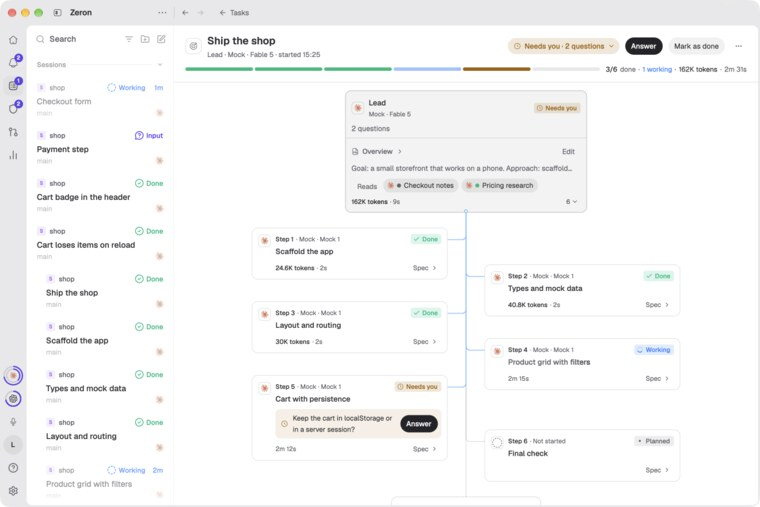
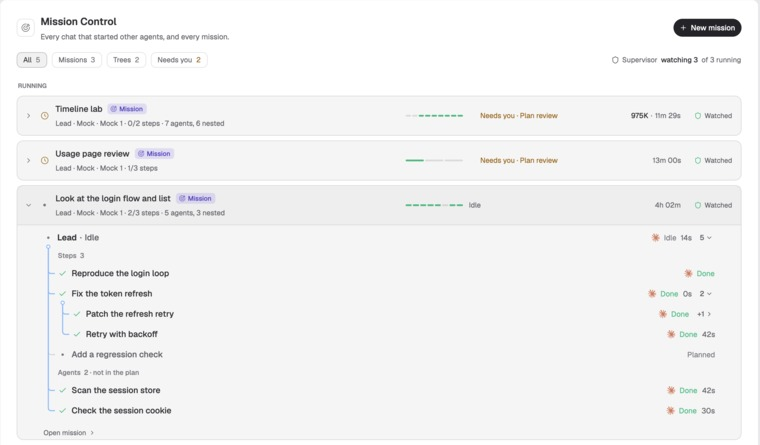
Docs and the 0.2.114 What's New entry for trees, watches and stall wakes
mission-control.md covers the index, thread links, the tree page and its
three views, Add plan on any chat and watching a tree. supervisor.md
adds Watch a tree, Watch everything, plain-tree authority and the six
stall wakes; delegation.md the owner notice. The 0.2.114 entry is edited
in place (no version bump) with a stall feature line, and the
mission-control, mission-tree, supervisor and supervisor-authority
images are re-shot at 2x on a Dev bundle with mock data.

diff --git a/crates/ui/docs/supervisor.md b/crates/ui/docs/supervisor.md
@@ -1,4 +1,4 @@
-The Supervisor is one agent for this Mac's workspace that sits above the leads of your [Mission Control](zeron://docs/mission-control) missions. You talk with it about architecture and direction, and it watches the missions you leave on. It does not run all the time: Zeron wakes it when something happens in a mission, and it goes back to sleep when it has nothing to do.
+The Supervisor is one agent for this Mac's workspace that sits above the leads of your [Mission Control](zeron://docs/mission-control) missions and the agent trees you ask it to watch. You talk with it about architecture and direction, and it watches the missions you leave on and the trees you pick. It does not run all the time: Zeron wakes it when something happens in what it watches, and it goes back to sleep when it has nothing to do.
 
 ## Open the Supervisor
 
@@ -8,9 +8,20 @@ The Supervisor's chat never shows in the sidebar or under **Archived**, and it n
 
 ## What wakes it and what it can do
 
-Zeron wakes the Supervisor when something happens in a watched mission: a step fails, a step or the lead waits on you, the mission finishes, the mission goes quiet for 30 minutes, the lead stays quiet for 10 minutes after a step failed, the plan is edited after the mission started, the lead escalates, or two missions contend for a shared resource. With **Decide for me** on, a plan that waits for review wakes it too. Events that arrive within a minute of each other come as one wake, and it wakes at most 12 times an hour.
+Zeron wakes the Supervisor when something happens in a watched mission: a step fails, a step or the lead waits on you, the mission finishes, the mission goes quiet for 30 minutes, the lead stays quiet for 10 minutes after a step failed, the plan is edited after the mission started, the lead escalates, or two missions contend for a shared resource. With **Decide for me** on, a plan that waits for review wakes it too.
 
-It acts through the missions' leads, within the switches under **Authority**:
+In a watched tree, at any depth, it wakes when a thread asks you something, fails, or a delegated thread finishes. It also wakes when work stalls:
+
+- a question has waited 20 minutes with no answer;
+- a thread finished its turn and left files uncommitted in its checkout;
+- a thread finished its turn on a branch that is not merged into the main branch;
+- a thread stays idle after its usage limit reset, with no resume scheduled;
+- a finished child's report never reached its owner, so the owner sits idle;
+- a branch cannot merge because another chat has the same files uncommitted in the main checkout. The wake names the files and that chat.
+
+None of these fire for a thread that only looks idle because you stopped its turn while its sub-agents still run. Events that arrive within a minute of each other come as one wake, and it wakes at most 12 times an hour, also with **Watch everything** on.
+
+In a mission it acts through the lead, within the switches under **Authority**:
 
 - It messages a lead or a step's thread, and answers their questions and tool approvals.
 - It re-briefs a step: it rewrites that step's title and spec, and the lead gets one message saying what changed and why. It never changes the plan's overview and never adds or removes a step.
@@ -19,15 +30,17 @@ It acts through the missions' leads, within the switches under **Authority**:
 - It decides for you, when you turn on **Decide for me** under **Authority**: it answers the leads' decisions and approves plans that wait for review. With **Change a mission's goal or spend** on too, it also decides goal and spend decisions and can change a mission's title and notes.
 - It asks you. A change to a mission's goal or spend, or a decision it should not make alone, becomes a decision in the inbox.
 
+In a tree without a plan there is no lead to act through. The Supervisor reads every thread in the tree, and with **Decide for me** on it answers what the tree's threads ask you; otherwise it brings their questions to you. Approving a plan, changing a goal or spend, and pausing a step apply once the tree has a plan, and it never stops a plain chat's sub-agents.
+
 A mission's lead can bring a decision to you too. When a decision changes the goal, costs money you have not approved, or cannot be settled from the plan, the lead escalates it as a decision in the inbox and keeps working on what does not depend on it. A lead escalates even when its mission is not watched; only the Supervisor's wake is skipped.
 
 ## The page
 
-The page has two columns. On the left are the header, the inbox and the composer. On the right, the missions rail holds the Supervisor's status card and the tree of every mission.
+The page has two columns. On the left are the header, the inbox and the composer. On the right, the rail holds the Supervisor's status card and the tree of every mission and every watched tree.
 
 The header shows the shield, **Supervisor**, a gear button, and the filter tabs. While either full-authority switch is on, **Full authority** shows next to **Supervisor**. The rail's status card says whether the Supervisor is on, what it last did, and what it checks next:
 
-- **Watching 2 missions**, with a green dot that breathes, when it has nothing to do but still watches. **Last** names the last wake, its reason and what the Supervisor did about it, for example **14:06 · step failed → messaged the Lead · Lead ran a turn**. **Next** names the next scheduled check, for example **silence check on Checkout at 14:36 if it stays quiet**, a check-in, or held events and when they wake it. On the right, **3 of 12 wakes this hour**.
+- **Watching 2 trees**, counting missions and watched trees, with a green dot that breathes, when it has nothing to do but still watches. **Last** names the last wake, its reason and what the Supervisor did about it, for example **14:06 · step failed → messaged the Lead · Lead ran a turn**. **Next** names the next scheduled check, for example **silence check on Checkout at 14:36 if it stays quiet**, a check-in, or held events and when they wake it. On the right, **3 of 12 wakes this hour**.
 - **Working on a wake**, with a spinner and how long the turn has run, while it handles a wake (**Woke** names the time, the reason and the mission), or **Working on a message** while it answers you. **Open the conversation** opens the conversation above the composer.
 - **Stopped by you**, in amber, after you stop its turn. Wakes queue up while it is stopped: **Held** lists their reasons and since when, and the right side counts them. **Resume** sends the waiting wakes; sending it a message resumes it too.
 - **Off** when it has no chat. **Start the Supervisor** starts it.
@@ -41,7 +54,7 @@ The number on the app rail's **Supervisor** item counts the open decisions, and 
 
 - **Wide windows** (1180 points and more): the rail is 384 points wide.
 - **Between 860 and 1180 points**: the rail is 300 points wide. The trees drop each agent's mark and time, the mission rows drop the current step, the status card drops the wake count, and each mission's footer is one row: **Open Mission Control ›** and **Watched**. The chevron at the top of the rail, level with the gear, collapses it.
-- **Below 860 points, or collapsed**: the rail is a 52-point strip with a chevron at the top that expands it again, the status dot, and one ring per mission with an amber count of its open decisions. Clicking a ring expands it too. While the strip shows, a status card that needs you (**Stopped**, **Off**, **Couldn't start**) moves under the header.
+- **Below 860 points, or collapsed**: the rail is a 52-point strip with a chevron at the top that expands it again, the status dot, and one ring per mission or watched tree with an amber count of its open decisions. Clicking a ring expands it too. While the strip shows, a status card that needs you (**Stopped**, **Off**, **Couldn't start**) moves under the header.
 
 The widths count the window without the sidebar, so an open sidebar narrows the page as if the window were smaller. When the inbox is too narrow for a decision on one line, as when you open the rail on a narrow window, each question takes its own line with its time and its options wrap on the line below it.
 
@@ -51,7 +64,7 @@ The inbox groups everything open by mission. Each mission gets one surface with 
 
 The tabs above the inbox count the open rows of each kind: **All**, **Needs you**, **Questions**, **Interventions** and **Resources**. A tab with nothing open is faint, and the **Needs you** count is amber while anything waits on you. Click a tab to show only that kind; click it again, or **All**, to show everything. A new decision brings the inbox back to **All**.
 
-When nothing is open, the inbox is one line: **Nothing needs you**, and how many missions the Supervisor watches.
+When nothing is open, the inbox is one line: **Nothing needs you**, and how many trees the Supervisor watches.
 
 Rows leave the inbox when they are done, and wait in **Earlier** under it, closed by default. Click **Earlier** to see them.
 
@@ -116,11 +129,21 @@ Click the **Resources** tab to see every declared resource, with the ones above 
 
 A contention wakes the Supervisor once, and again only after it has cleared. Zeron checks again when you open this page (at most once a minute), half a minute and two minutes after a pause, and when a thread of the missions sharing it starts or stops work (at most every two minutes). Resources are not shown on Windows.
 
-## Missions
+## Watch a tree
 
-The rail lists every Mission Control task that is not done. Missions finished today stay below under **Done today**, folded, with a full ring and **Done**, the step count and the time it finished, and **Done · the Supervisor stopped watching it** in place of the switch. Each mission shows its progress ring, its name, the step it is on (**Step 2 of 5** and its title) and a thin progress bar. A mission the Supervisor does not watch reads **Not watched**; a mission whose lead runs on another device reads **on** that device's name, **not watched**: the Supervisor can only reach threads on its own Mac.
+Every mission whose lead runs on this Mac is watched from the start. A plain agent tree, a chat that started other threads without a plan, is watched only when you pick it. Open the tree from [Mission Control](zeron://docs/mission-control) and click **Watch** in its header. A sheet opens with what the Supervisor will do: wake when anything in the tree asks, fails or finishes, at any depth, and act inside its authority. It shows the two **Authority** switches it uses, **Decide for me** and **Change a mission's goal or spend**. Both are off by default and apply to everything the Supervisor watches. On a tree without a plan, the second one is greyed out: **Applies once this tree has a plan**. Click **Start watching**. The button turns into **Watched** with a green dot, and the tree joins the rail.
 
-Each running mission is open, showing who works on it as the same tree the strip at the top of a lead's chat shows: the **Lead** with what it is doing, then each step under it in the order Mission Control numbers them, each with its state, its agent's mark and, while it works, the time so far. Click a mission's name to fold it. The lead says what waits on you, such as **Plan review, 1 question**, and reads **Idle** when nothing does. The fold button on the lead folds the steps away. Hover a row to see ↗, and click it to open that thread; a step with no thread yet shows › and opens Mission Control on that step. **Open Mission Control** opens the mission's page too, described in [Mission Control](zeron://docs/mission-control). **Watched by the Supervisor** at the bottom has a switch: turn it off and that mission stops waking the Supervisor; turn it on again to bring it back.
+![The Watch sheet on a tree without a plan](supervisor.jpg)
+
+Click **Watched** to see the last wake from that tree and **Stop watching**. **Open Supervisor** opens this page. Stopping changes nothing in the tree: its agents keep running. On a mission, **Watch** and **Stop watching** are the same switch as **Watched by the Supervisor** on the rail. A tree whose root chat runs on another device reads **on** that device's name, **not watched**.
+
+**Watch everything** at the top of **Authority**, behind the gear, watches every thread on this Mac without picking trees one by one. A mission you turned off stays off. While it is on, a tree it covers reads **Watch everything is on** where **Stop watching** would be.
+
+## Missions and trees
+
+The rail lists every Mission Control task that is not done, and every watched tree that runs. Missions and trees finished today stay below under **Done today**, folded, with a full ring and **Done**, the step count and the time it finished, and **Done · the Supervisor stopped watching it** in place of the switch. Each card shows its progress ring, its name, a **Mission** or **Tree** badge, what it is on (**Step 2 of 5** and its title, or what its agents do) and a thin progress bar. A mission the Supervisor does not watch reads **Not watched**; a mission whose lead runs on another device reads **on** that device's name, **not watched**: the Supervisor can only reach threads on its own Mac.
+
+With up to four running, each card is open, showing who works on it as the same tree the strip at the top of a lead's chat shows: the **Lead** with what it is doing, then each step under it in the order Mission Control numbers them, and the agents it started, each with its state, its agent's mark and, while it works, the time so far. With five or more, each card folds to one line with its ring, name, badge and status; click one to open it. Click a card's name to fold or open it. The lead says what waits on you, such as **Plan review, 1 question**, and reads **Idle** when nothing does. The fold button on the lead folds the steps away. Hover a row to see ↗, and click it to open that thread; a step with no thread yet shows › and opens Mission Control on that step. **Open Mission Control** opens the tree's page too, described in [Mission Control](zeron://docs/mission-control). **Watched by the Supervisor** at the bottom has a switch: turn it off and that mission or tree stops waking the Supervisor, and a tree leaves the rail; turn it on again to bring a mission back.
 
 Hover a row in the inbox and its mission lights up in the rail: an amber border, and its lead row highlighted. When a new decision arrives, its mission glows briefly.
 
@@ -138,15 +161,16 @@ Click the × to close the drawer.
 
 Click the gear in the header to open **Authority** and the **Wake log**. Click outside it or press Esc to close it.
 
-![The Supervisor's Authority popover with Decide for me](supervisor-authority.jpg)
+![The Supervisor's Authority popover with Watch everything and Decide for me](supervisor-authority.jpg)
 
 **Authority** sets what the Supervisor may do on its own:
 
+- **Watch everything**: off by default. Watches every thread on this Mac, not only missions and the trees you picked. See **Watch a tree** above.
 - **Message a Lead or Peer directly**: send messages to leads and step threads, and answer their questions. Answering a tool approval also needs the Supervisor's chat at **Full** access, its default.
 - **Re-brief a step, through its Lead**
 - **Pause a step that blocks a shared resource**: on by default, and only usable when Zeron has verified a contention. Not shown on Windows.
 - **Start a new mission**: off by default. While it is off, the Supervisor cannot start new threads either.
-- **Decide for me**: off by default. The Supervisor decides the leads' decisions whose reason is **Decision**, choosing one of the options and saying why, and approves a plan that waits for review, the way your **Approve** does, 30 seconds later so you can take it back. Each one shows under **Interventions**, where you can change it. Turning it on wakes the Supervisor for the decisions already waiting that it now covers.
+- **Decide for me**: off by default. In a tree without a plan, it answers what the tree's threads ask you. In a mission, the Supervisor decides the leads' decisions whose reason is **Decision**, choosing one of the options and saying why, and approves a plan that waits for review, the way your **Approve** does, 30 seconds later so you can take it back. Each one shows under **Interventions**, where you can change it. Turning it on wakes the Supervisor for the decisions already waiting that it now covers.
 - **Change a mission's goal or spend**: off by default, separate from **Decide for me**. The Supervisor also decides the leads' **Goal** and **Spend** decisions, and can change a mission's title and notes; the lead gets one message about it. It never deletes or reassigns a mission.
 
 With both off, the Supervisor brings these to you as before. It never decides a question it raised itself, or anything in a mission it does not watch. **Check in on its own** wakes it every 30 or 60 minutes while a watched mission runs; it is **Off** by default. Your choices are saved on this Mac and stay after a restart.

diff --git a/crates/ui/docs/mission-control.md b/crates/ui/docs/mission-control.md
@@ -1,6 +1,57 @@
-Mission Control runs a big task with more than one agent. A lead agent plans the work into steps, runs each step on its own thread, checks the results and reports back. You can read and change the plan, approve it before anything runs, and watch every step live. A mission is a task on your [Tasks](zeron://docs/tasks) list, so it shows there with the rest of your work.
+Mission Control follows every chat that started other agents, and every mission. A chat that hands work to other threads becomes the root of a tree: its children, their children, and the sub-agents they run. A mission is the same tree with a plan: a lead agent plans the work into steps, runs each step on its own thread, checks the results and reports back. You can add a plan to any chat at any time, read and change it, approve it before anything runs, and watch every thread live. A mission is a task on your [Tasks](zeron://docs/tasks) list, so it shows there with the rest of your work.
 
 Mission Control introduces itself once, in a four-page sheet that appears after the update unless you have already started a mission: **Start with a goal**, **Approve the plan**, **Watch every step**, and **A lead and a Supervisor watch**. **Try Mission Control** on its last page opens New chat in Mission Control mode. To see the sheet again, choose **Mission Control intro** in the rail's **Help** menu.
+
+## The Mission Control page
+
+Click **Mission Control** in the rail, between **Tasks** and **Supervisor**. The page lists, newest activity first:
+
+- **Running**: every mission that is not done, and every tree whose root is still working or whose threads were active today.
+- **Done today**: missions finished today, and trees you marked done today or whose threads all went idle today.
+
+A chat gets a row when it leads a plan or started another thread: a delegated task, a thread it created with `create_thread`, or a step. A sidechat, a fork, or Claude Code's own built-in sub-agents never make a row by themselves. A thread that belongs to a tree shows inside that tree's row, not as its own.
+
+Each row shows a status mark, the title, a **Mission** or **Tree** badge, the lead's agent and model, steps done out of all steps, how many agents it started and how many of them are nested, one small bar per thread in its state's color, what it is doing (**Watching 2 steps, 1 agent**, **Idle**, or **Needs you** and who asks, from any depth), the tokens and time it has used, and a green shield with **Watched** when the [Supervisor](zeron://docs/supervisor) watches it.
+
+The chips above the list filter it: **All**, **Missions**, **Trees** and **Needs you**, each with its count. On the right, **Supervisor watching 2 of 5 running** says how many running rows the Supervisor watches. **New mission** opens New chat in Mission Control mode.
+
+Click a row to unfold its whole tree under it, and again to fold it. **Open mission** or **Open tree** at the bottom opens its page.
+
+![The Mission Control page with a mission unfolded](mission-control.jpg)
+
+## How threads link
+
+Zeron reads how each thread started and links it to its parent:
+
+- **Delegated**: a task a chat handed off with `delegate_task`, or a step thread the lead runs. The parent owns it: it fills a step, its parent hears when it finishes, and it counts in the tree's progress.
+- **Opened from**: a thread a chat or an agent created with `create_thread`. It shows in the tree under its parent, but it is only a label: it does not fill a step or wake its parent. Matching it to a step with Add plan (below) makes it a step.
+- **Forked from** and **sidechat of**: labels only. A fork or a sidechat starts its own tree.
+
+## A tree's page
+
+Click **Open tree** on a row, or a thread in the Supervisor's rail. The header shows the root chat's title with **Tree**, the lead's agent and model, when the tree started and **No plan**. On the right: **Watch** (see **Watched by the Supervisor** below), the tree's state, **Add plan**, **Mark as done** and **⋯**. **Mark as done** sets the root chat done without stopping anything; **Reopen** undoes it. A bar under them has one segment per thread, with agents done out of all agents, how many work, and the tokens and time.
+
+![A tree's page in Outline, with the lead live on the right](mission-tree.jpg)
+
+The titlebar switches the page between three views, for every tree and mission alike. Zeron remembers your choice; a new install starts on **Outline**.
+
+- **Outline**: the whole tree as rows, at any depth, with **Steps** and **Agents** as two small groups under the lead when there is a plan. Click a row to see that thread on the right: who started it and when, which step it fills, its spec, its own children, its live transcript, **Open thread** and a composer. A built-in sub-agent's row opens its read-only transcript.
+- **Spine**: the cards described under **A mission's page**. Without a plan, the lead card says **No plan** with **Add plan**, and every child is an **Agent** card. A card whose thread started others lists them inside it, **Started 2 agents**. With a plan, agents that fill no step sit after **Add a step**, under **Agents · started by the Lead, not in the plan**.
+- **Timeline**: the outline on the left and, on the right, one bar per turn of each thread: blue while it runs, green when done, amber while it waited on an answer, labelled **Needs you** or **Waited 35s**. A dotted line drops from the parent's bar at the moment it started the child. Planned steps show as dashed pills after now. A finished tree fits its whole run; a live one follows the clock.
+
+Switching views moves each card to its row and back; with reduced motion the view changes at once.
+
+When a thread starts a new child, it rises into the tree on the page, the Mission Control list, the Supervisor's rail and the lead's strip at the same time, and a card that grows pushes the cards under it down. With reduced motion, everything appears at once.
+
+## Add a plan to any chat
+
+**Add plan** on a tree's page, on its lead card, or in a chat's right-click menu turns the chat into a mission's lead in place. Zeron makes a task named after the chat, and the chat gets the lead's instructions as a message: write a plan for the work it is already doing, do a step itself or with its own sub-agents and mark it done, start a new thread only when a step needs one, and match a thread it already started to a step. Then the plan waits for your review. The chat's own conversation continues where it was.
+
+While the lead writes, its line reads **Planning**. The planned steps rise in above the threads it had already started, which move under **Agents**, and the badge turns from **Tree** to **Mission**. **Approve and run** starts the steps. A chat leads one unfinished plan at a time. Add plan does not show for sidechats, pull request chats, the Supervisor, or chats on another device.
+
+## Watched by the Supervisor
+
+Every mission is watched by the [Supervisor](zeron://docs/supervisor) unless you turn it off. A tree without a plan is watched only when you pick it: click **Watch** in its header, read what the Supervisor will do, set its two **Authority** switches if you want, and click **Start watching**. The button turns into **Watched** with a green dot. Click it again for **Stop watching**. With **Watch everything** on, every tree is watched.
 
 ## Start a mission from a task
 
@@ -37,21 +88,22 @@ In an open chat, press Shift+Tab in the composer, or click **Mission Control** u
 - **This chat leads**, the default: the chat becomes the mission's lead. It keeps its name and its agent, and the task with the lead's instructions arrives in it as a message, so the agent plans from the conversation you already had. If the agent is working, the message steers its turn instead of stopping it. The step threads show in the sidebar under this chat. A chat leads one unfinished mission at a time: while it still leads one, Zeron refuses a second and gives your text back.
 - **New mission reads this chat**: Zeron starts a new lead with the chat's agent, model, permissions and project, and this chat is the first of the chats the lead reads before it plans. The chat shows **Started mission** with the task's name. Click **Open** for its Mission Control page, or **Dismiss** to hide the notice.
 
-## The Mission Control page
+## A mission's page
 
 A Mission Control task opens its own page instead of the card, from the Tasks list, the board, the Inbox, the **Missions** widget on Home, the Supervisor's **Missions** list, or the strip at the top of its chats. The back button in the titlebar takes you back: to the chat you came from, named after it, or else to **Tasks**.
 
 ![A mission's plan as a tree](mission-control-tree.jpg)
 
-The header shows the task's title, and under it the lead's agent and model and when the mission started, or when it finished. On the right:
+The header shows the task's title with **Mission**, and under it the lead's agent and model and when the mission started, or when it finished. On the right:
 
+- **Watched** with a green dot while the Supervisor watches the mission, or **Watch**.
 - A status pill: **Needs you** with what waits (**plan review**, **1 question**), **1 step failed**, **✓ Done**, or the lead's state (**Planning**, **Working**, **Idle**). Click **Needs you** or **failed** for a small window that lists those steps, with **Open thread** and **Answer**, **Approve and run** for a plan that waits for you, or **Skip** and **Retry**.
 - The next thing to do, when there is one: **Answer** (or **Approve and run**) for the first thing that waits on you, or **Retry step N** for the first failed step.
 - **Mark as done**, or **Reopen** once the mission is done, and **⋯** with **Open lead thread** and **Fold the steps**.
 
 Under them a bar has one segment per step in its state's color: green when done, amber when it needs you, red when it failed, blue with a moving shine while it works, faint when planned. Hover a segment to name its step; click it to open that step's thread on the right. Next to the bar: steps done out of all steps, how many are working, the tokens the whole mission has used so far, and how long it has run (**took** and the time it took, once done).
 
-Under the header the plan is drawn as a tree:
+In **Spine**, under the header the plan is drawn as a tree:
 
 - The lead's card on top: its agent and model, its state (**Not started**, **Planning**, **Working**, **Needs you**, **Done**), what it is doing (**The lead is planning**, **Watching** its running steps, **Working**, what waits on you such as **Plan review, 1 question**, or **Idle**), and, with **plan.md**, the **Overview** the lead wrote. The overview shows one line; click **Overview** to read all of it. **Reads**, when the mission has chats to read, shows one chip per chat with its status, read-only. The bottom line has the tokens the lead and its steps have used, and a button with the number of steps that folds them away and brings them back.
 - The steps, from the top down, alternating left and right of a line that runs down the middle, each joined to it. Each card shows the step's number with its agent and model (or **Not started**) above its title, its state (**Planned**, **Working**, **Needs you**, **Failed**, **Stopped**, **Interrupted**, **Done**, or **Skipped**), and at the bottom the tokens it has used and its time: the time so far while it works, then the time its agent spent working. A step that needs you shows its question with **Answer**, which opens its thread; a failed step shows what went wrong with **Retry**. Click **Spec** at the bottom right, which counts the spec's images, to open what the lead wrote for the step in a box under it, with **Edit**, **Add image** and **Open thread**. The spec slides open and closed, and the cards below move with it.
@@ -140,4 +192,4 @@ The [Supervisor](zeron://docs/supervisor) is one agent above the leads of all yo
 
 The Supervisor acts through the leads, within the switches you set under **Authority**: it messages a lead or a step's thread, answers their questions, re-briefs a step through its lead, pauses a step that blocks a shared resource, or starts a new mission, whose plan you review before any step runs. It never adds or removes a step and never changes the overview. A change to a mission's goal or spend comes to you as a **Needs you** card on the Supervisor page, and so does a decision a lead escalates. When you turn on **Decide for me** under **Authority**, the Supervisor decides the leads' decisions and approves plans itself, and **Change a mission's goal or spend** lets it decide those too; each decision shows on the Supervisor page, where you can change it.
 
-The Supervisor's **Missions** list shows every mission that is not done, who works on it, and **Open Mission Control** for its page. Turn off **Watched by the Supervisor** there to keep a mission from waking it. A mission whose lead runs on another device is not watched.
+The Supervisor's rail shows every mission that is not done and every tree it watches, who works on it, and **Open Mission Control** for its page. Turn off **Watched by the Supervisor** there to keep a mission or tree from waking it. A mission whose lead runs on another device is not watched.

diff --git a/crates/ui/docs/delegation.md b/crates/ui/docs/delegation.md
@@ -48,6 +48,10 @@ The parent's agent answers with Zeron's `respond_to_input` tool when the answer 
 
 The question waits for you as well, so you can answer it yourself. If you answer first, the parent's agent finds nothing left to answer. See [When an agent asks](zeron://docs/agent-questions).
 
+## When you write to a child
+
+You can talk to a child yourself in its tab. When you send a message to a delegated task that is still running, its parent's agent gets a note that names the child and quotes what you wrote, so it knows the child's plan may have changed. The same goes for a step of a [Mission Control](zeron://docs/mission-control) mission: its lead gets the note. The note is only news: it does not change the child's result, and the parent's agent does not need to answer it. A thread another chat merely opened with `create_thread` sends no note.
+
 ## Check on or stop a task
 
 With Zeron's `task_status` tool, the agent reads where a task stands: still working, waiting on children of its own, or done, with the child's final result, or the error when it failed. It can read a task another chat delegated too, without affecting that chat.
